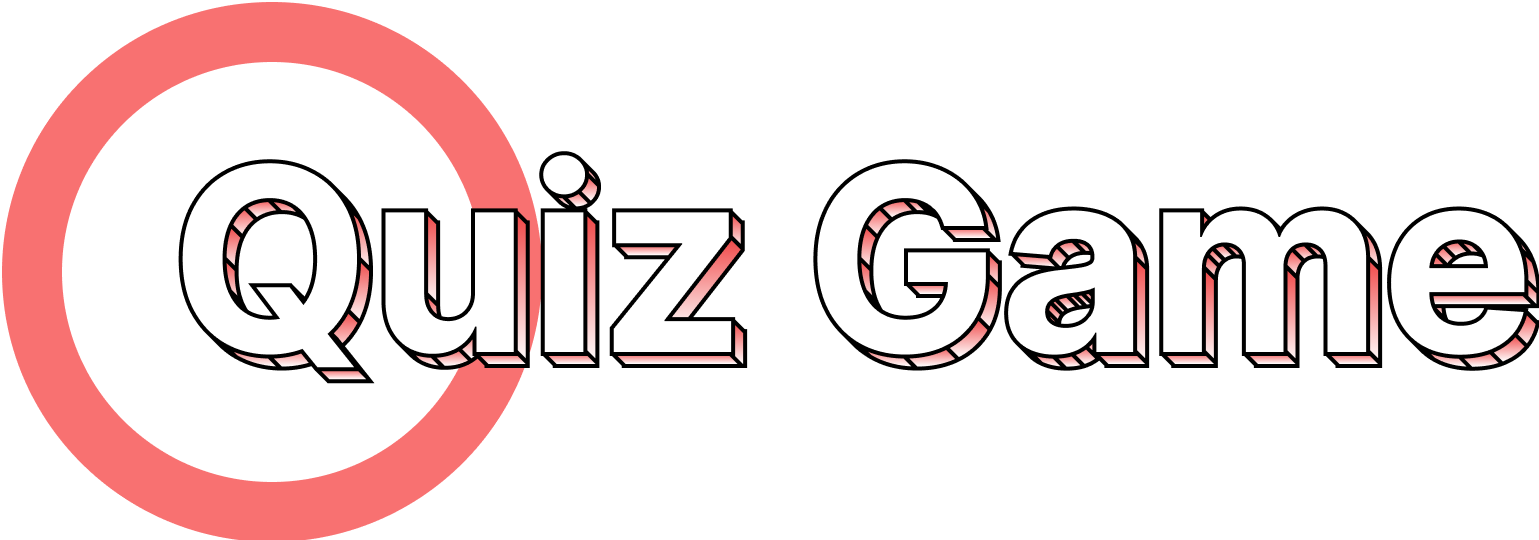
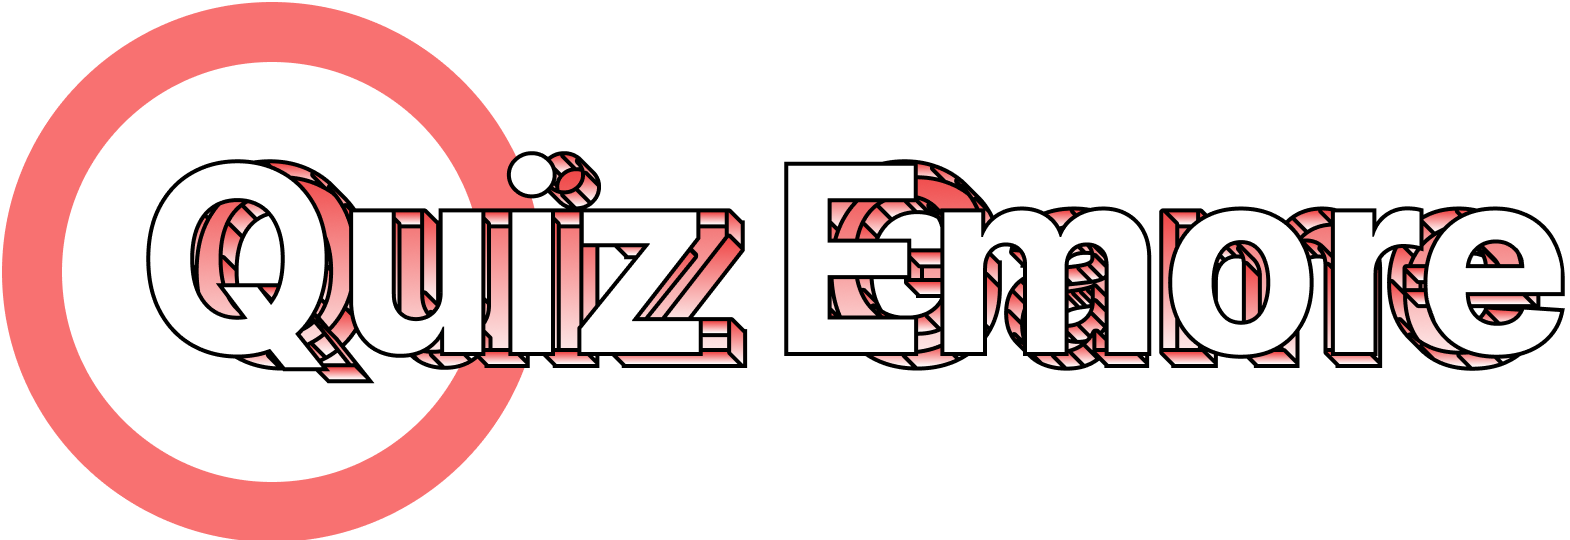
fix: footer fixed

diff --git a/scripts/script.js b/scripts/script.js
@@ -38,7 +38,8 @@ const correctBar = document.getElementById("progress-correct");
 const displayCorrect = document.getElementById("display-correct");
 const displayIncorrect = document.getElementById('display-incorrect');
 const playAgainBtn = document.getElementById('playagain-btn');
-
+// footer
+const footer = document.querySelector("footer")
 
 // Music Function
 const musicBtn = document.getElementById("music-btn");
@@ -94,6 +95,7 @@ submitNameBtn.addEventListener('click', () => {
 
   sectionHome.classList.remove("hidden");
   sectionName.classList.add("hidden");
+  
   genereteURL(name)
 })
 
@@ -185,7 +187,7 @@ const playBtn = document.getElementById("play-btn");
 playBtn.addEventListener("click", async () => {
   sectionQuiz.classList.remove("hidden");
   sectionHome.classList.add("hidden");
-
+  footer.classList.remove("fixed")
   let categoryValues = category.dataset.value;
   let diffucultValues = diffucult.dataset.value;
   let limitValues = limit.value;
@@ -198,6 +200,7 @@ playBtn.addEventListener("click", async () => {
     displayScore.classList.add("hidden");
     quitBtn.innerText = "Try Again";
     modalText.innerText = "Are you sure you want to try again?";
+    footer.classList.add("fixed")
     options.innerHTML = `<div class="p-4 mb-4 text-md lg:text-xl text-red-700 bg-red-100 rounded-lg" role="alert">
       <span class="font-medium">Please try again!</span> Category, Diffuculty, Limit must be filled out. 
     </div>
@@ -206,6 +209,9 @@ playBtn.addEventListener("click", async () => {
     </div>
     `
 
+    category.value = "";
+    diffucult.value = "";
+    limit.value = ""
   }
 })
 
@@ -269,7 +275,6 @@ async function getQuizzes(diffucult = "", category = "", limit) {
   submitBtn.addEventListener("click", () => {
     sectionQuiz.classList.add("hidden");
     sectionScore.classList.remove("hidden")
-
     //save data
     let percentScore = ((score / resp.length) * 100).toFixed(0)
     let incorrectScore = resp.length - score
@@ -393,14 +398,13 @@ document.addEventListener('DOMContentLoaded', function () {
   } else {
     sectionName.classList.toggle("hidden");
     sectionHome.classList.add('hidden')
-    
   }
 });
 
 function saveScoreResult() {
   if (localStorage.getItem("data_result")) {
-    sectionHome.classList.add("hidden")
-    console.log("sementara!")
+    sectionHome.classList.add("hidden");
+    footer.classList.remove("fixed")
   } else {
     sectionScore.classList.add("hidden");
   }
@@ -422,6 +426,10 @@ backBtn.addEventListener("click", () => {
 playAgainBtn.addEventListener("click", () => {
   sectionScore.classList.add("hidden");
   sectionHome.classList.remove("hidden");
+  footer.classList.add("fixed")
+  category.value = "";
+  diffucult.value = "";
+  limit.value = ""
 })
 
 let click = 0;
@@ -456,12 +464,13 @@ const displayOptions = (option, index) => {
     <li>
       <input type="radio" id="${option}" name="option" value="${option}" class="hidden peer radio-option" required>
       <label for="${option}"
-        class="inline-flex justify-between  items-center w-96 p-5 m-2 text-white bg-glass-2 rounded-lg border border-gray-200 cursor-pointer peer-checked:border-red-400 peer-checked:text-red-400 hover:text-red-400 hover:bg-gray-100">
+        class="inline-flex justify-between items-center w-96 p-5 m-2 text-white bg-glass-2 rounded-lg border border-gray-200 cursor-pointer peer-checked:border-red-400 peer-checked:text-red-400 hover:text-red-400 hover:bg-gray-100">
         <div class="block">
-          <div class="w-full text-lg font-semibold">${option}</div>
+          <div class="w-full text-smmd:text-lg font-semibold word-break">${option}</div>
         </div>
       </label>
     </li>
   `
 }
+
 

diff --git a/index.html b/index.html
@@ -185,9 +185,9 @@
         </button>
     </div>
   </section>
-  <section id="quiz" class="lg:my-2 lg:mx-4 hidden ">
+  <section id="quiz" class="my-12 lg:mx-4 hidden ">
     <!-- Main Box Question -->
-    <div class="box rounded-xl flex flex-col justify-center items-center bg-glass mt-3 " id="box-question ">
+    <div class="box rounded-xl flex flex-col justify-center items-center md:w-full bg-glass mt-3 " id="box-question ">
       <div class="bg-salmon w-full flex items-center text-white py-3 px-5 justify-between rounded-t-lg ">
         <div class="flex items-center">
           <img src="src/img/cat-icon.png" class="w-6 h-6 mr-2" alt="category icon">
@@ -198,7 +198,7 @@
         <div id="length" class="font-medium">DNF</div>
       </div>
       <div class="p-6">
-        <div id="title" class="text-white text-center font-semibold text-2xl mb-3"></div>
+        <div id="title" class="text-white text-center font-semibold text-lg md:text-2xl mb-3"></div>
         <ul class="flex flex-col items-center justify-centers" id="options">
         </ul>
         <div class="flex justify-around">
@@ -380,7 +380,7 @@
   <footer
     class="fixed bottom-0 left-0 z-5 p-4 w-full bg-glass border-t border-gray-200 shadow md:flex md:items-center md:justify-around md:p-6 ">
     <span class="text-sm text-white sm:text-center ">© 2022 <a href="https://flowbite.com/"
-        class="hover:underline">Quiz Game™</a>. All Rights Reserved.
+        class="hover:underline">Quiz Emore™</a>. All Rights Reserved.
     </span>
     <ul class="flex flex-wrap items-center mt-3 text-sm text-white  sm:mt-0">
       <li>

diff --git a/scripts/profile.js b/scripts/profile.js
@@ -4,7 +4,7 @@ const signOutBtn = document.getElementById("signout-btn");
 const contEditName = document.querySelector("#edit-name");
 const username = document.getElementById("username")
 const tbody = document.getElementById("tbody");
-
+const footer = document.querySelector('footer')
 
 function showName() {
   profileImage.forEach(img => {
@@ -144,5 +144,7 @@ document.addEventListener("DOMContentLoaded", () => {
     // Display Points
     const points = document.getElementById('points');
     points.innerHTML = localStorage.getItem("total") + `&nbsp;<span class="text-sm text-red-200">XP</span>`
+  } else if (obj.length > 5) {
+    footer.classList.remove("fixed")
   }
 })

diff --git a/profile.html b/profile.html
@@ -163,7 +163,7 @@
   <footer
     class="fixed bottom-0 left-0  p-4 w-full bg-glass border-t border-gray-200 shadow md:flex md:items-center md:justify-around md:p-6 ">
     <span class="text-sm text-white sm:text-center ">© 2022 <a href="https://flowbite.com/" class="hover:underline">Quiz
-        Game™</a>. All Rights Reserved.
+        Emore™</a>. All Rights Reserved.
     </span>
     <ul class="flex flex-wrap items-center mt-3 text-sm text-white  sm:mt-0">
       <li>
